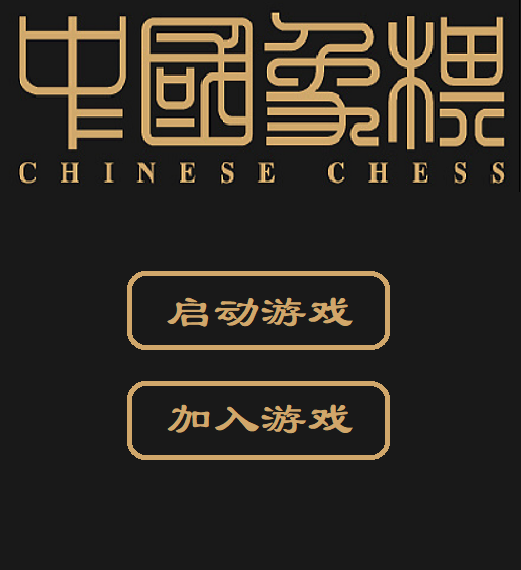
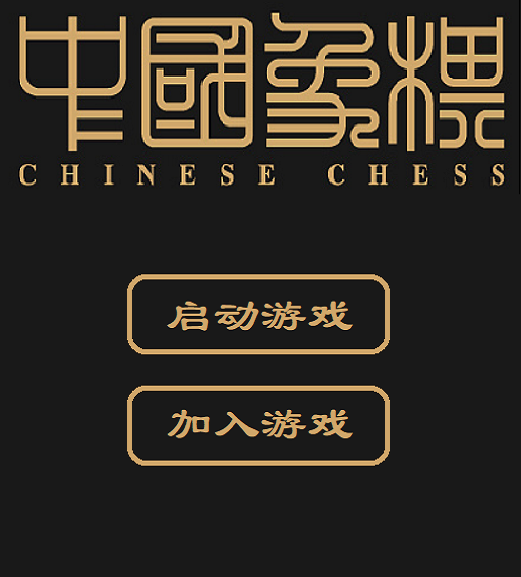
操作信息检测（退出、鼠标点击）,图片尺寸修改

diff --git a/Red.py b/Red.py
@@ -9,6 +9,7 @@ buf_size = 512  # 传输的尺寸限制
 tag = 0  # 游戏进行状态标识，0表示开始界面，1表示等待界面，2表示游戏界面，3表示结束界面
 button_start = 0  # 按下’创建房间‘按钮置为1
 button_join = 0  # 按下’加入房间‘按钮置为1
+change = 0  # 鼠标事件标识
 
 
 class Mess:  # 用于传送数据的类
@@ -37,14 +38,16 @@ def build_connect(start, join):
 
 
 def main():
-    global tag, button_start, button_join, board_choice
+    global tag, button_start, button_join, change
 
     # 初始化
     Draw_Related.init()
 
     # 主循环
     while True:
-        global tag, button_start, button_join, board_choice
+
+        # 操作信息检测
+        change = Draw_Related.check_movement()
 
         # 背景绘制
         Draw_Related.bg_draw(tag)

diff --git a/Black.py b/Black.py
@@ -9,6 +9,7 @@ buf_size = 512  # 传输的尺寸限制
 tag = 0  # 游戏进行状态标识，0表示开始界面，1表示等待界面，2表示游戏界面，3表示结束界面
 button_start = 0  # 按下’创建房间‘按钮置为1
 button_join = 0  # 按下’加入房间‘按钮置为1
+change = 0  # 事件标识
 
 
 class Mess:  # 用于传送数据的类
@@ -37,13 +38,16 @@ def build_connect(start, join):
 
 
 def main():
-    global tag, button_start, button_join, board_choice
+    global tag, button_start, button_join, change
 
     # 初始化
     Draw_Related.init()
 
     # 主循环
     while True:
+
+        # 操作信息检测
+        change = Draw_Related.check_movement()
 
         # 背景绘制
         Draw_Related.bg_draw(tag)
